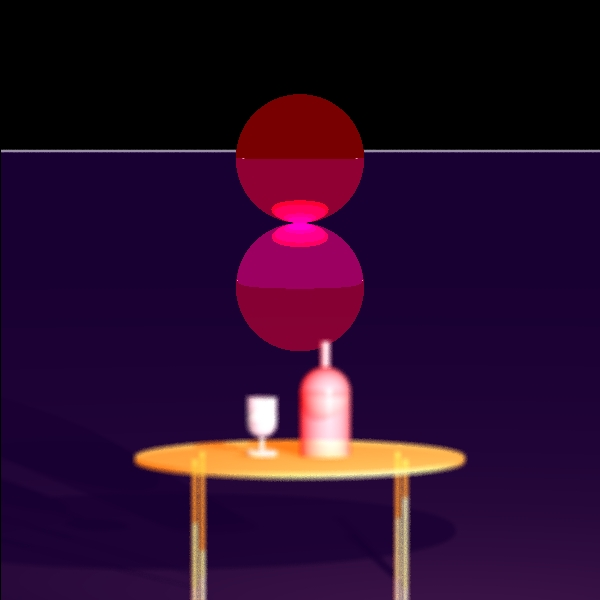
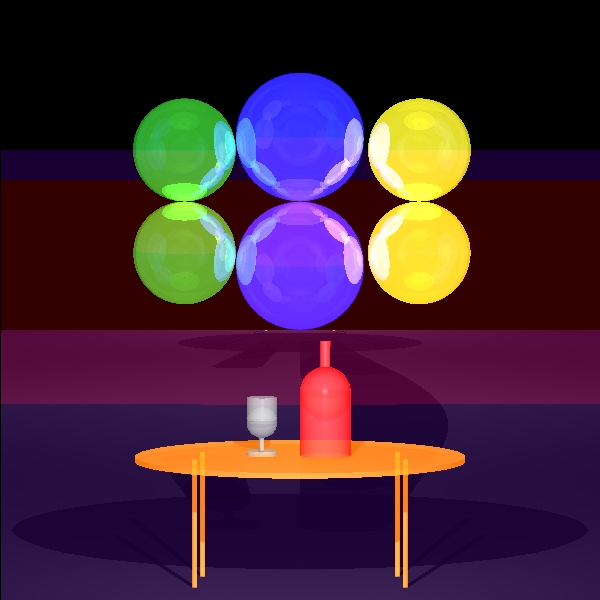
start stage 8 middle scene

diff --git a/UnitTests/UnitTests/DepthOfFieldTest.java b/UnitTests/UnitTests/DepthOfFieldTest.java
@@ -2,6 +2,7 @@ package UnitTests;
 
 import elements.AmbientLight;
 import elements.Camera;
+import elements.ImprovedSpot;
 import elements.SpotLight;
 import geometries.*;
 import org.junit.Test;
@@ -73,15 +74,24 @@ public class DepthOfFieldTest {
     public void depthOfFieldFullImage() {
         Scene scene = new Scene("Test scene");
         scene.setCamera(new Camera(new Point3D(0, -120, -1000), new Vector(0, 0.05, 1), new Vector(0, -1, 0.05),
-                7000, 8, 5, true));
+                1175, 12, 3, false));
         scene.setDistance(1000);
         scene.setBackground(Color.BLACK);
         scene.setAmbientLight(new AmbientLight(Color.BLACK, 0.15));
 
-        Plane myPlane =  new Plane(new Color(25,0,51), new Material(0.1, 0, 60,0,0.9),
-                new Point3D(0,50,0),new Vector(0,1,0));
-        Tube MyTube = new Tube(new Color(150,150,150), new Material(0.5, 0.5, 60,0,0),//
-                100,new Ray(new Point3D(0,-50,500000),new Vector(1,0,0)));
+
+        Geometries planes = new Geometries(
+                new Plane(new Color(25,0,51), new Material(0.5, 0.5, 60,0,0),
+                        new Point3D(0,50,0),new Vector(0,1,0))/*,
+                new Plane(Color.BLACK, new Material(0.4, 0.6, 60,0,0),
+                        new Point3D(0,50,10000),new Vector(0,0,1))*/
+                );
+
+        Tube MyTube = new Tube(new Color(25,70,51), new Material(0.5, 0.5, 500,0,0),//
+                80,new Ray(new Point3D(0,-50,100000),new Vector(1,0,0)));
+
+        Tube MyCylinder = new Cylinder(new Color(50,0,0), new Material(0.2, 0.2, 500,0,0.6),//
+                80,new Ray(new Point3D(0,50,6000),new Vector(0,-1,0)),50);
 
         Geometries table  = new Geometries(
                 //plate of the table
@@ -102,42 +112,62 @@ public class DepthOfFieldTest {
                         1,new Ray(new Point3D(-39,0,190),new Vector(0,1,0)), 60));
 
         Geometries bottle = new Geometries(
-                new Cylinder(new Color(153,0,0), new Material(0.5, 0.5, 60,0.5,0),
+                new Cylinder(new Color(70,0,0), new Material(0.5, 0.5, 60,0.5,0),
                 10,new Ray(new Point3D(10,0,175),new Vector(0,-1,0)), 25),
-                new Cylinder(new Color(153,0,0), new Material(0.5, 0.5, 60,0.5,0),
+                new Cylinder(new Color(70,0,0), new Material(0.5, 0.5, 60,0.5,0),
                         2,new Ray(new Point3D(10,-35,175),new Vector(0,-1,0)), 10),
-                new Sphere(new Color(153,0,0), new Material(0.5, 0.5, 60,0.5,0),
+                new Sphere(new Color(70,0,0), new Material(0.5, 0.5, 60,0.5,0),
                         10,new Point3D(10,-25,175)));
 
         Geometries KiddushCup = new Geometries(
-                new Cylinder(new Color(64,64,64), new Material(0.5, 0.5, 60,0.5,0),
+                new Cylinder(new Color(32,32,32), new Material(0.5, 0.5, 60,0.5,0),
                 6,new Ray(new Point3D(-15,0,175),new Vector(0,-1,0)), 2),
-                new Cylinder(new Color(64,64,64), new Material(0.5, 0.5, 60,0.5,0),
+                new Cylinder(new Color(32,32,32), new Material(0.5, 0.5, 60,0.5,0),
                         1,new Ray(new Point3D(-15,-2,175),new Vector(0,-1,0)), 5),
-                new Cylinder(new Color(64,64,64), new Material(0.5, 0.5, 60,0.5,0),
+                new Cylinder(new Color(32,32,32), new Material(0.5, 0.5, 60,0.5,0),
                         6,new Ray(new Point3D(-15,-13,175),new Vector(0,-1,0)), 10),
-                new Sphere(new Color(64,64,64), new Material(0.5, 0.5, 60,0.5,0),
+                new Sphere(new Color(32,32,32), new Material(0.5, 0.5, 60,0.5,0),
                         6,new Point3D(-15,-13,175)));
 
         Geometries balls = new Geometries(
-                new Sphere(new Color(120,0,0), new Material(0, 0, 0,0,1),
-                        150,new Point3D(0,-100,6000))/*,
-                new Sphere(new Color(0,0,150), new Material(0.2, 0.3, 60,0.0,0.5),
-                        20,new Point3D(-65,30,80))*/);
+                new Sphere(new Color(java.awt.Color.BLUE), new Material(0.5, 0.5, 30),
+                        150,new Point3D(0,-200,6000)),
+                new Sphere(new Color(80,80,0), new Material(0.1, 0.1 ,0,0.8,0),
+                        120,new Point3D(270,-170,6000)),
+                new Sphere(new Color(0,50,0), new Material(0.1, 0.1 ,0,0.8,0.8),
+                        120,new Point3D(-270,-170,6000)),
+                new Sphere(new Color(60,0,0), new Material(0.05, 0.05, 60,0.0,0.9),
+                        5000,new Point3D(0,4950,6000))
+        );
 
         Geometries cylinders = new Geometries(
-                new Cylinder(new Color(53,0,26), new Material(0.2, 0.1, 60,0.7,0),
-                        10,new Ray(new Point3D(-100,-50,250),new Vector(0,-1,-0.3)), 40)
-                /*,new Cylinder(new Color(64,64,64), new Material(0.5, 0.5, 60,0.5,0),
-                        30,new Ray(new Point3D(-15,-13,400),new Vector(0,-1,0)), 10)*/);
+                new Cylinder(new Color(0,73,25), new Material(0.2, 0.2, 60,0,0.6),
+                        80,new Ray(new Point3D(460,-70,6000),new Vector(0.1,-1,-0.7)), 70),
+                new Cylinder(new Color(0,73,25), new Material(0.2, 0.2, 60,0,0.6),
+                        60,new Ray(new Point3D(460,-70,6000),new Vector(0.1,-1,-0.7)), 110),
+                new Cylinder(new Color(0,73,25), new Material(0.2, 0.2, 60,0,0.6),
+                        40,new Ray(new Point3D(460,-70,6000),new Vector(0.1,-1,-0.7)), 150),
+                new Cylinder(new Color(102,51,0), new Material(0.5, 0.5, 60,0,0),
+                        80,new Ray(new Point3D(-460,-70,6000),new Vector(-0.1,-1,-0.7)), 70),
+                new Cylinder(new Color(102,51,0), new Material(0.5, 0.5, 60,0,0),
+                        60,new Ray(new Point3D(-460,-70,6000),new Vector(-0.1,-1,-0.7)), 110),
+                new Cylinder(new Color(102,51,0), new Material(0.5, 0.5, 60,0,0),
+                        40,new Ray(new Point3D(-460,-70,6000),new Vector(-0.1,-1,-0.7)), 150)
+        );
 
-        scene.addGeometries(table, bottle, myPlane, KiddushCup , balls, /*cylinders,*/ MyTube);
+        scene.addGeometries(table, bottle, planes, KiddushCup , balls, cylinders/*,MyCylinder, MyTube*/);
 
 
-        scene.addLights(new SpotLight(new Color(700, 400, 400), //
-                new Point3D(60, -50, 0), new Vector(0, 0, 1), 1, 4E-5, 2E-7));
+        scene.addLights(
+                new SpotLight(new Color(150, 150, 150), //
+                        new Point3D(0, -50, 0), new Vector(0, 0, 1), 1, 4E-3, 2E-5),
+                new SpotLight(new Color(700, 400, 400), //
+                        new Point3D(200, -350, 5), new Vector(-1, 1, 4), 1, 4E-6, 2E-8)/*,
+                new ImprovedSpot(new Color(500, 500, 500),
+                        new Point3D(0,-100,6000), new Vector(-2, 1, 0), 1, 0.0001, 0.000005, 2)*/
+        );
 
-        ImageWriter imageWriter = new ImageWriter("depthOfFieldFullImage", 200, 200, 600, 600);
+        ImageWriter imageWriter = new ImageWriter("depthOfFieldFullImage1", 200, 200, 600, 600);
         Render render = new Render(imageWriter, scene);
 
         render.renderImage();

diff --git a/src/elements/Camera.java b/src/elements/Camera.java
@@ -26,7 +26,7 @@ public class Camera {
     private Vector _vRight;
 
     private double _focusDistance;
-    private Plane _focalPlane;
+    /*private Plane _focalPlane;*/
     private double _aperture;
     private int _dimensionRays;
     private boolean _actDepthOfField;
@@ -72,7 +72,7 @@ public class Camera {
 
         this._aperture = aperture;
         this._focusDistance = focusDistance;
-        this._focalPlane = new Plane(new Ray(_location,_vTo).getPoint(_focusDistance),_vTo);
+        /*this._focalPlane = new Plane(new Ray(_location,_vTo).getPoint(_focusDistance),_vTo);*/
         this._dimensionRays = dimensionRays;
         this._actDepthOfField = actDepthOfField;
     }
@@ -119,7 +119,7 @@ public class Camera {
      */
     public void setFocusDistance(double _focusDistance) {
         this._focusDistance = _focusDistance;
-        this._focalPlane = new Plane(new Ray(_location,_vTo).getPoint(_focusDistance),_vTo);
+        /*this._focalPlane = new Plane(new Ray(_location,_vTo).getPoint(_focusDistance),_vTo);*/
     }
 
     /**
@@ -135,7 +135,7 @@ public class Camera {
      * @param _actDepthOfField act depth of field feature
      */
     public void setActDepthOfField(boolean _actDepthOfField) {
-       if (_focalPlane != null)
+       /*if (_focalPlane != null)*/
            this._actDepthOfField = _actDepthOfField;
     }
 
@@ -197,12 +197,19 @@ public class Camera {
         if (!(alignZero(_focusDistance - screenDistance ) > 0))
             throw new IllegalArgumentException ("focusDistance can't little from screenDistance");
 
-        if (_focalPlane == null){
+        /*if (_focalPlane == null){
             _focusDistance = screenDistance * 1.2;
             this._focalPlane = new Plane(new Ray(_location,_vTo).getPoint(_focusDistance),_vTo);
+        }*/
+
+        if (_focusDistance == 0){
+            _focusDistance = screenDistance * 1.2;
         }
 
-        Point3D focalPoint = _focalPlane.findIntersections(rayThroughPixel).get(0)._point;
+        /*Point3D focalPoint = _focalPlane.findIntersections(rayThroughPixel).get(0)._point;*/
+        double cos = _vTo.dotProduct(rayThroughPixel.get_direction());
+        double dis = _focusDistance/cos;
+        Point3D focalPoint = rayThroughPixel.getPoint(dis);
 
         // Calculate the length and width of the grid
         double apertureWidth = screenWidth/nX*_aperture;
